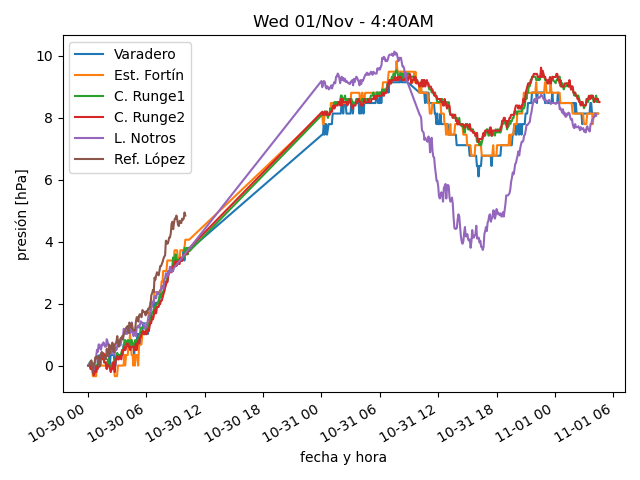
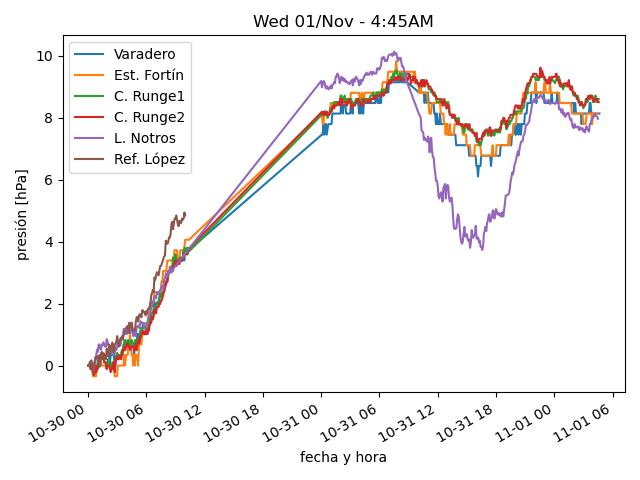
actualiza datos

diff --git a/estaciones/estacion5.html b/estaciones/estacion5.html
@@ -18,27 +18,27 @@
     </tr>
     <tr>
      <td class="stats_data">
-      4:15AM
+      4:30AM
      </td>
     </tr>
     <tr>
      <td class="stats_data">
-      2.7⁰C
+      2.8⁰C
      </td>
     </tr>
     <tr>
      <td class="stats_data">
-      1.4⁰C
+      1.3⁰C
      </td>
     </tr>
     <tr>
      <td class="stats_data">
-      91.0%
+      90.0%
      </td>
     </tr>
     <tr>
      <td class="stats_data">
-      1025.87hPa
+      1025.77hPa
      </td>
     </tr>
     <tr>
@@ -48,7 +48,7 @@
     </tr>
     <tr>
      <td class="stats_data">
-      0.76 / 0.25 mm
+      1.02 / 0.51 mm
      </td>
     </tr>
     <tr>

diff --git a/estaciones/estacion1.html b/estaciones/estacion1.html
@@ -18,7 +18,7 @@
     </tr>
     <tr>
      <td class="stats_data">
-      4:24AM
+      4:39AM
      </td>
     </tr>
     <tr>
@@ -28,7 +28,7 @@
     </tr>
     <tr>
      <td class="stats_data">
-      2.2⁰C
+      2.1⁰C
      </td>
     </tr>
     <tr>
@@ -43,7 +43,7 @@
     </tr>
     <tr>
      <td class="stats_data">
-      3.3/5.1 km/hr S
+      4.1/6.2 km/hr NNE
      </td>
     </tr>
     <tr>

diff --git a/estaciones/estacion3.html b/estaciones/estacion3.html
@@ -18,7 +18,7 @@
     </tr>
     <tr>
      <td class="stats_data">
-      4:24AM
+      4:34AM
      </td>
     </tr>
     <tr>
@@ -43,7 +43,7 @@
     </tr>
     <tr>
      <td class="stats_data">
-      6.1/9.2 km/hr SE
+      5.4/7.8 km/hr SSE
      </td>
     </tr>
     <tr>
